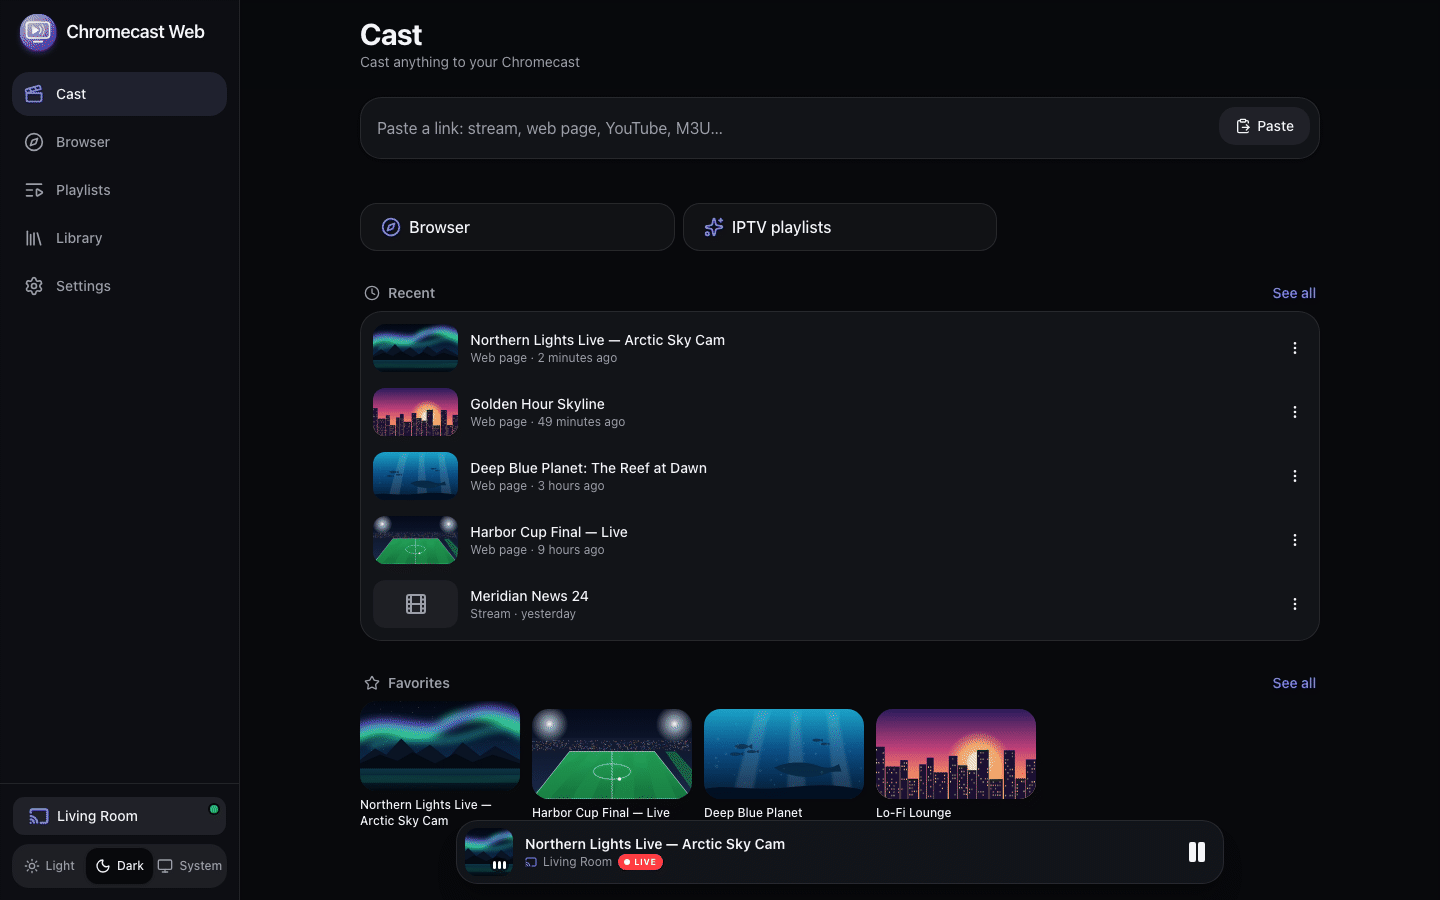
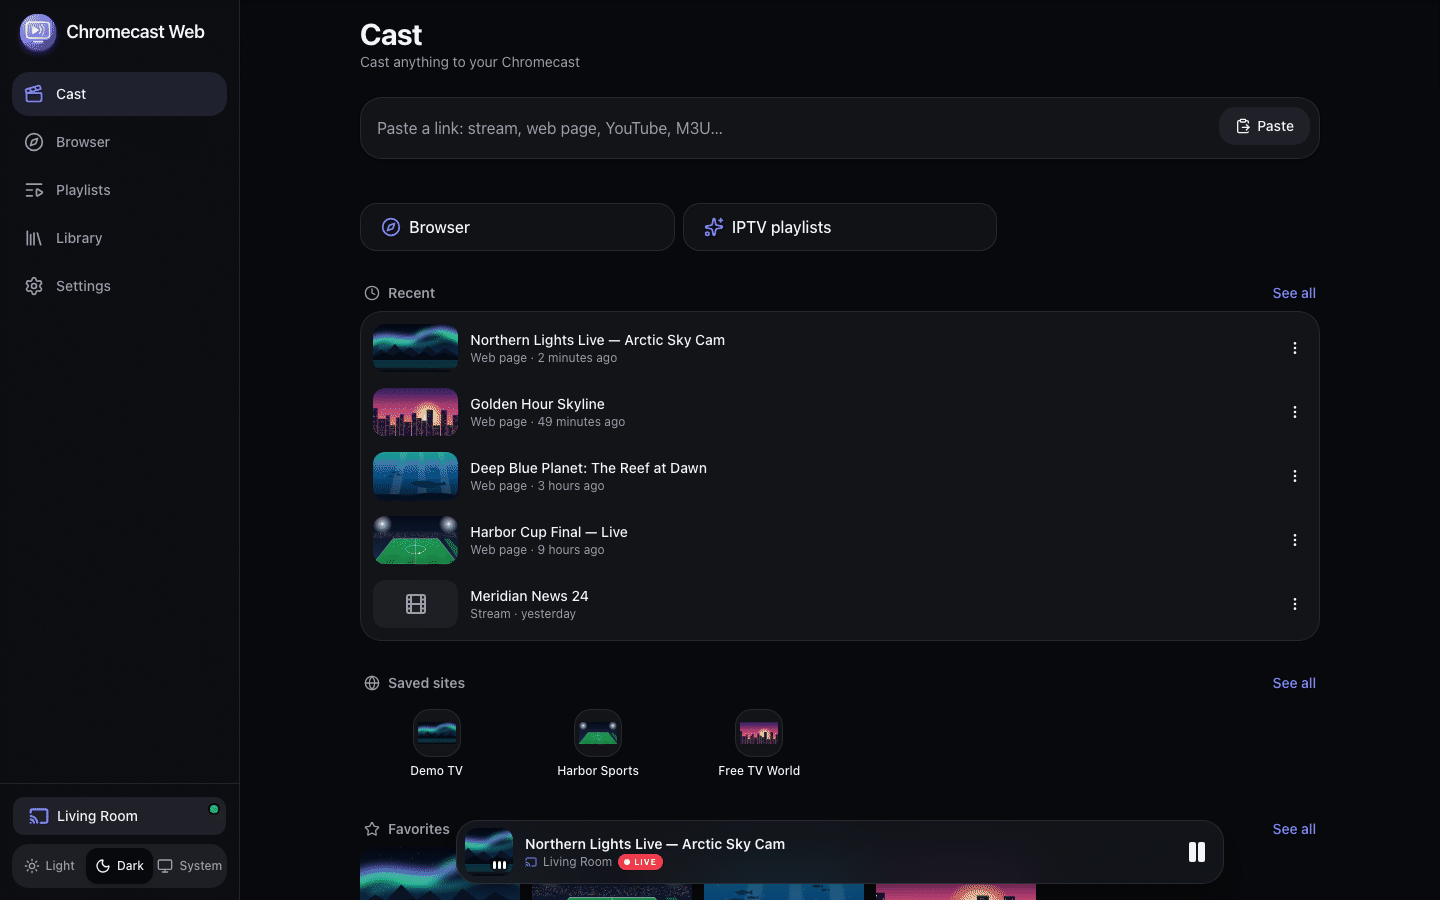
docs: saved sites in README and demo screenshots

diff --git a/backend/scripts/demo.py b/backend/scripts/demo.py
@@ -116,6 +116,14 @@ async def seed(api: str, data_dir: Path) -> None:
         ]
         for fav in reversed(favorites):
             await call("POST", "/api/favorites", json=fav)
+        # saved sites (reopened in the remote browser), fictional like the rest
+        for site in reversed([
+            {"input": f"{content.SITE}/", "title": "Demo TV", "thumbnail": f"{content.SITE}/art/aurora.svg"},
+            {"input": f"{content.SITE}/watch/harbor-cup-final", "title": "Harbor Sports",
+             "thumbnail": f"{content.SITE}/art/stadium.svg"},
+            {"input": f"{content.IPTV}/", "title": "Free TV World", "thumbnail": f"{content.SITE}/art/city.svg"},
+        ]):
+            await call("POST", "/api/favorites", json={**site, "kind": "site"})
 
         dev = f"/api/devices/{LIVING_ROOM}"
         # history, oldest first; the last one stays on the TV

diff --git a/README.md b/README.md
@@ -52,6 +52,7 @@ with a built-in remote browser that finds the video inside web pages for you.
 **A real remote**
 - Play/pause, seek, ±10 s, *Go live*, volume, subtitles and audio tracks, previous/next.
 - Server-side **queue** (reorder, remove), **favorites**, **history**, an **idle image** on the TV.
+- **Saved sites**: star a page in the remote browser and reopen it in one tap from Home or the Library.
 - Every open phone, tablet and PC stays **in sync in real time** over WebSocket.
 - **Never looks frozen**: *Loading…*, *Slow connection…* and *Reconnecting… attempt 1/3* right on the player.
 - **Live streams come back on their own**: when the Chromecast drops a live stream (a stalled segment, a CDN hiccup)

diff --git a/README.it.md b/README.it.md
@@ -53,6 +53,7 @@ Chromecast, con un browser remoto integrato che trova da solo il video dentro le
 **Un vero telecomando**
 - Play/pausa, seek, ±10 s, *Vai al live*, volume, sottotitoli e tracce audio, precedente/successivo.
 - **Coda** lato server (riordina, rimuovi), **preferiti**, **cronologia**, **immagine di attesa** sulla TV.
+- **Siti salvati**: metti una stella a una pagina nel browser remoto e riaprila con un tocco dalla Home o dalla Libreria.
 - Tutti i telefoni, tablet e PC aperti restano **sincronizzati in tempo reale** via WebSocket.
 - **Non sembra mai bloccato**: *Caricamento…*, *Connessione lenta…* e *Riconnessione… tentativo 1/3* direttamente
   sul player.
